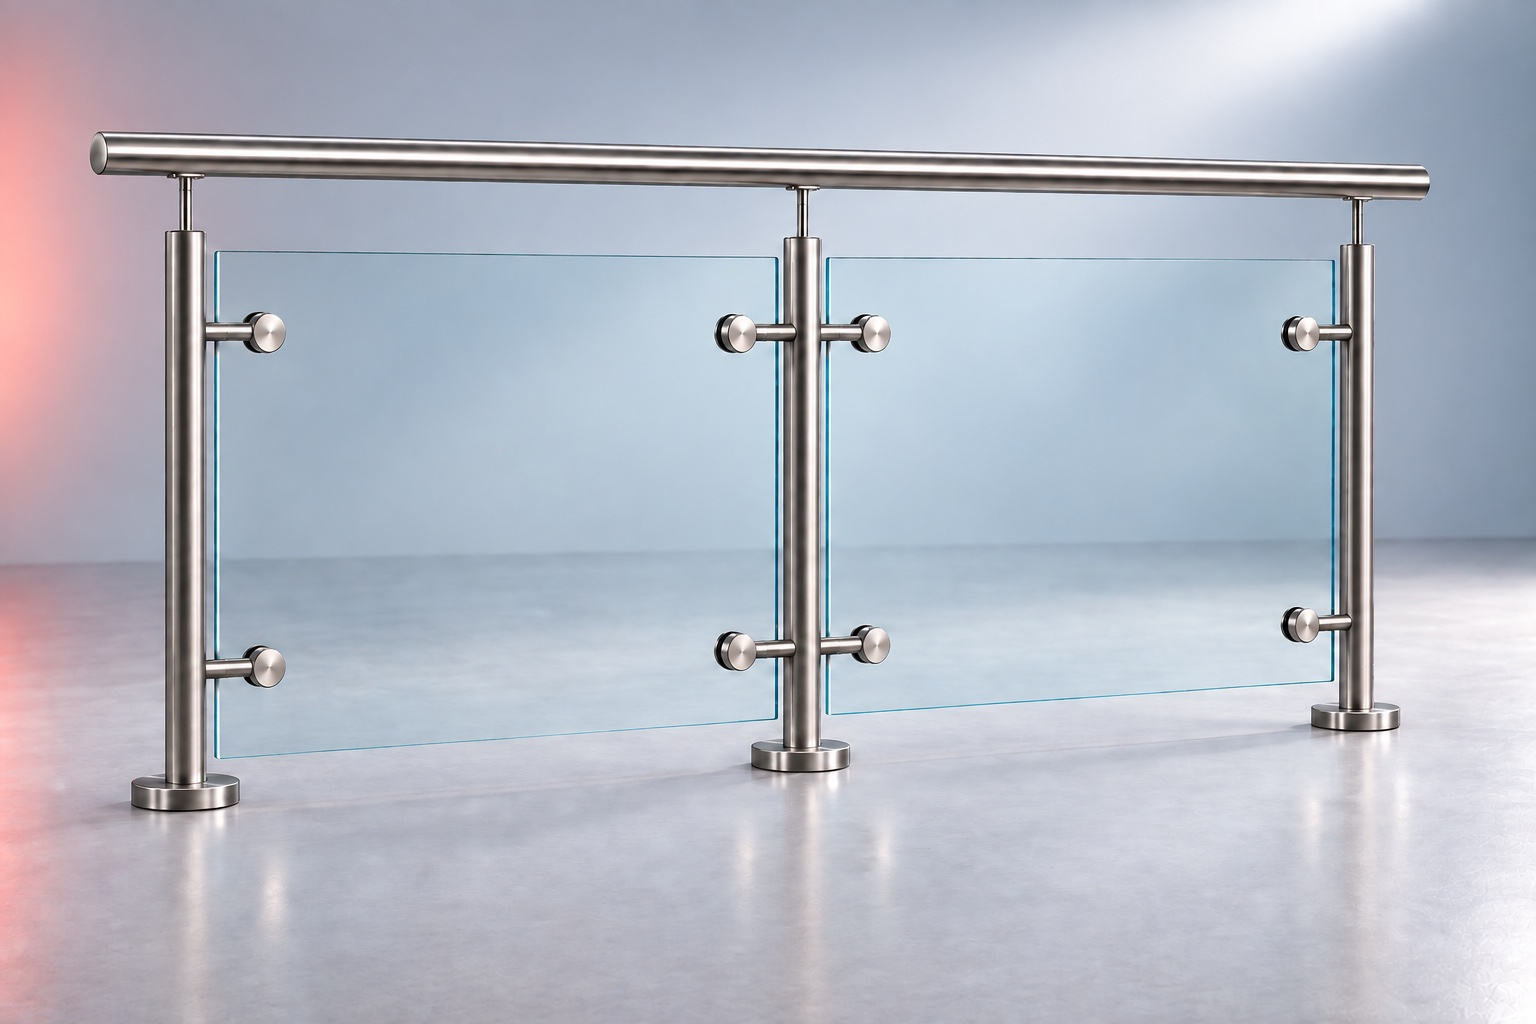
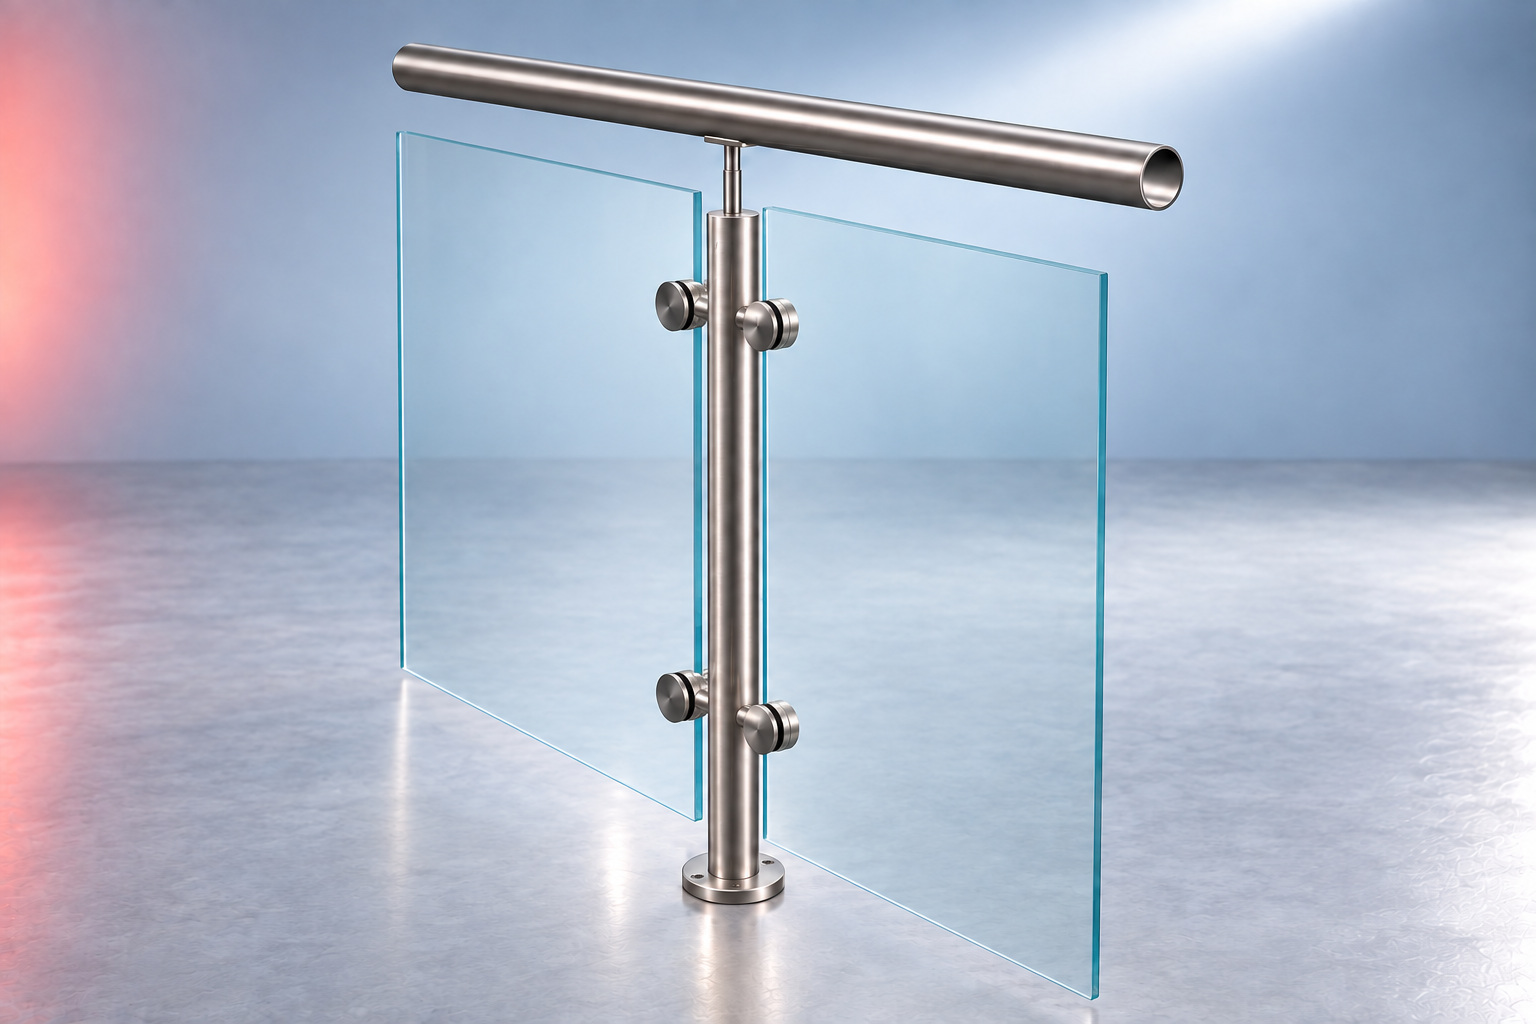
Correct HRD 1223 and HRD 1221 cover images (1.56.0)

diff --git a/index.html b/index.html
@@ -222,12 +222,12 @@
           <button class="project-open" type="button" data-open-project="hrd1616" aria-haspopup="dialog"><span>Explorar solución</span><b aria-hidden="true"><i></i></b></button>
         </article>
         <article class="project-card project-card-hrd1223" data-project="hrd1223">
-          <figure class="project-card-photo"><img src="/assets/projects/hrd-1223/portada-estudio.jpg?v=1-47-0" alt="Estudio del poste HRD 1223 con cuerpo tubular y brazos ajustables para vidrio" loading="lazy"></figure>
+          <figure class="project-card-photo"><img src="/assets/projects/hrd-1223/portada-estudio.jpg?v=1-56-0" alt="Estudio del poste HRD 1223 con cuerpo tubular y brazos ajustables para vidrio" loading="lazy"></figure>
           <div class="project-card-copy"><span>04 · HRD 1223 · Estudio de tubo</span><h3>Tubo circular.<br>Brazos ajustables.</h3><p>Cuerpo tubular, cuatro puntos de sujeción y vidrio. Una reconstrucción visual para explorar cada unión.</p></div>
           <button class="project-open" type="button" data-open-project="hrd1223" aria-haspopup="dialog"><span>Explorar poste</span><b aria-hidden="true"><i></i></b></button>
         </article>
         <article class="project-card project-card-hrd1221" data-project="hrd1221">
-          <figure class="project-card-photo"><img src="/assets/projects/hrd-1221/portada-estudio.jpg?v=1-48-0" alt="HRD 1221 con cuerpo circular, soleras horizontales y discos para vidrio" loading="lazy"></figure>
+          <figure class="project-card-photo"><img src="/assets/projects/hrd-1221/portada-estudio.jpg?v=1-56-0" alt="HRD 1221 con cuerpo circular, soleras horizontales y discos para vidrio" loading="lazy"></figure>
           <div class="project-card-copy"><span>05 · HRD 1221 · Soleras planas</span><h3>Soleras planas.<br>Cuerpo circular.</h3><p>Dos soleras continuas con fijación central y cuatro puntos de sujeción al vidrio.</p></div>
           <button class="project-open" type="button" data-open-project="hrd1221" aria-haspopup="dialog"><span>Explorar poste</span><b aria-hidden="true"><i></i></b></button>
         </article>

diff --git a/CLAUDE.md b/CLAUDE.md
@@ -1,12 +1,14 @@
 # Herraidea — contexto del proyecto
 
-Versión actual: **1.55.1**
+Versión actual: **1.56.0**
 
 El dominio oficial `www.herraidea.com` sirve la web desde Vercel y `herraidea.com` redirige de forma segura a esa dirección. Las referencias canónicas, la tarjeta social, los datos estructurados y el catálogo descargable usan el dominio oficial. Los registros de correo preexistentes se conservaron al migrar los servidores DNS desde Jimdo a Vercel.
 
 Sitio de producción: `https://www.herraidea.com/`
 
 ## Estado actual
+
+Las portadas 04 y 05 se rehacen desde los modelos 3D reales. La 04 muestra un solo HRD 1223 intermedio con brazos tubulares; la 05 muestra un solo HRD 1221 intermedio con soleras planas. Los cristales están alineados con las mordazas y los modelos interactivos permanecen sin cambios.
 
 La tarjeta móvil 03 del HRD 1616 desplaza su foco hacia un poste para mostrarlo junto con los cables y completar el formato uniforme de las portadas.
 

diff --git a/CHANGELOG.md b/CHANGELOG.md
@@ -1,3 +1,8 @@
+## 1.56.0 — 2026-09-21
+
+- Las portadas 04 y 05 se rehacen a partir de sus modelos 3D reales: un solo poste intermedio HRD 1223 con brazos tubulares y un solo HRD 1221 con soleras planas.
+- Los cristales quedan alineados con sus mordazas y se conservan intactos los modelos 3D interactivos.
+
 # Historial de versiones — Herraidea
 
 ## 1.55.1 — 2026-09-21
